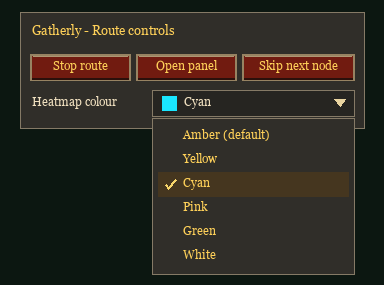
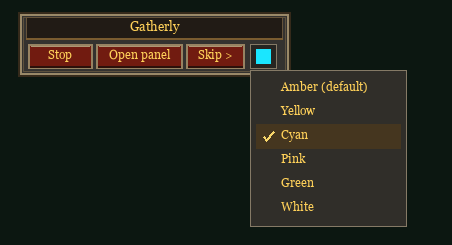
Compact floating route controls with Classic frame styling

diff --git a/tools/render_ui_preview.py b/tools/render_ui_preview.py
@@ -15,7 +15,13 @@ CreateFrame=function(...)
  f.SetPoint=function(self,...) local a={...}; if type(a[2])~='table' then a={a[1],self.parent,a[1],a[2] or 0,a[3] or 0} elseif type(a[3])~='string' then a={a[1],a[2],a[1],a[3] or 0,a[4] or 0} end; self.anchors[#self.anchors+1]=a end
  f.ClearAllPoints=function(self) self.anchors={};self.all=nil end
  f.SetAllPoints=function(self,target) self.all=target or self.parent end
- f.SetBackdrop=function(self,v) self.backdrop=v end
+ f.SetBackdrop=function(self,v)
+  self.backdrop=v
+  if v and v.edgeFile=='Interface\\DialogFrame\\UI-DialogBox-Border' then
+   if not self.previewTrim then self.previewTrim=self:CreateTexture(nil,'BORDER');self.previewTrim:SetAllPoints() end
+   self.previewTrim:SetTexture(v.edgeFile)
+  end
+ end
  f.SetBackdropColor=function(self,...) self.backColor={...} end
  f.SetBackdropBorderColor=function(self,...) self.borderColor={...} end
  f.SetFont=function(self,path,size,flags) self.fontPath=path;self.fontSize=size;self.fontFlags=flags end
@@ -35,12 +41,14 @@ CreateFrame=function(...)
  return f
 end
 WorldMapFrame:Hide();C_Minimap={GetViewRadius=function() return 200 end}
-A={version='0.18.3'};for _,m in ipairs({'Store','Client','Resources','MarkerGroups','SkillTooltip','Selection','Atlas','ResourceLibrary','DifficultyProbe','Editor','Recorder','Coverage','Corridor','Planner','FarmingSession','Follower','Heatmap','MiniHeat','MinimapPins','Map','Skin','PanelWindow','ScrollPanel','VirtualList','Dropdown','Data/MapReveal','MapOverlays','MapArt','GroupPicker','RouteSketch','RouteView','RouteControls','ResourceLibraryView','UIActions','FilterSidebar','WelcomeView','MarkerFiltersView','NodeDisplayView','PreferencesView','UI','Arrow','MinimapButton'}) do assert(loadfile(m..'.lua'))('Gatherly',A) end
+A={version='0.18.4'};for _,m in ipairs({'Store','Client','Resources','MarkerGroups','SkillTooltip','Selection','Atlas','ResourceLibrary','DifficultyProbe','Editor','Recorder','Coverage','Corridor','Planner','FarmingSession','Follower','Heatmap','MiniHeat','MinimapPins','Map','Skin','PanelWindow','ScrollPanel','VirtualList','Dropdown','Data/MapReveal','MapOverlays','MapArt','GroupPicker','RouteSketch','RouteView','RouteControls','ResourceLibraryView','UIActions','FilterSidebar','WelcomeView','MarkerFiltersView','NodeDisplayView','PreferencesView','UI','Arrow','MinimapButton'}) do assert(loadfile(m..'.lua'))('Gatherly',A) end
 A.db=A.Store.Open();A.Client.Position=function() return {mapID=1,x=.2,y=.4} end
 A.Client.Size=function() return 1000,600 end
 A.Client.Distance=function(a,b) if not a or not b or a.mapID~=b.mapID then return end;return math.sqrt(((a.x-b.x)*1000)^2+((a.y-b.y)*600)^2) end
 A.Client.Probe=function() return {loot=true,position=true,distance=true,facing=true,minimap=true} end
 A.Store.distance=A.Client.Distance; C_Map={GetMapInfo=function(id) return {name=({[1]='Ashenvale',[2]='Darkshore',[3]='Elwynn Forest'})[id] or 'Zone '..tostring(id)} end}; C_Map.GetMapArtID=function() return 1 end;C_Map.GetMapArtLayers=function() return {{layerWidth=1000,layerHeight=667,tileWidth=1000,tileHeight=667}} end;C_Map.GetMapArtLayerTextures=function() return {9001} end;A.UI.Build();A.UI.OpenRoutes()
+-- Approximate the native PortraitFrame background file and UVs in the frame double.
+A.UI.chrome.Bg={GetTexture=function() return 9002 end,GetTexCoord=function() return 0,1,0,1 end}
 function populate()
  local nodes={}
  for i=1,18 do local n=A.Store.Observe(A.db,{mapID=1,x=.18+(i%6)*.08,y=.18+math.floor(i/6)*.14,kind=i%3==0 and 'ore' or 'herb',name=i%3==0 and 'Copper vein' or i%2==0 and 'Silverleaf' or 'Peacebloom',materialID='m'..(i%3),source=i%2==0 and 'confirmed' or 'imported'});nodes[#nodes+1]=n end
@@ -103,8 +111,8 @@ def render(scene):
     if scene=='route_heatmap':lua.execute("A.UI.controls.routeStyle:SelectValue('heatmap')")
     if scene=='route_selected':lua.execute("A.UI.routeSketch.pins[1].scripts.OnClick(A.UI.routeSketch.pins[1])")
     if scene=='compact':lua.execute('A.UI.controls.start.scripts.OnClick();A.UI.OpenRoutes();A.UI.SetCompact(true)')
-    if scene=='route_controls':lua.execute('A.UI.actions.start()')
-    if scene=='route_controls_colour':lua.execute("A.db.settings.routeControlsPosition={x=.5,y=.6};A.UI.actions.start();A.RouteControls.colour:SelectValue('cyan');A.RouteControls.colour.scripts.OnClick(A.RouteControls.colour)")
+    if scene=='route_controls':lua.execute('Minimap:Hide();A.UI.actions.start()')
+    if scene=='route_controls_colour':lua.execute("Minimap:Hide();A.db.settings.routeControlsPosition={x=.5,y=.6};A.UI.actions.start();A.RouteControls.colour:SelectValue('cyan');A.RouteControls.colour.scripts.OnClick(A.RouteControls.colour)")
     if scene=='preferences':lua.execute("A.UI.SetTab('settings')")
     if scene in ('welcome','welcome_importing'):
         lua.execute("A.UI.SetTab('welcome')")
@@ -160,7 +168,7 @@ def render(scene):
         resolving.remove(k);boxes[k]=r;return r
     def visible(o):return o['shown'] is not False and (o['parent'] is None or ident(o['parent'])==0 or visible(o['parent']))
     im=Image.new('RGBA',(screen_w,screen_h),'#0c1711');d=ImageDraw.Draw(im)
-    d.text((160,27),'GATHERLY 0.18.3 / '+scene.upper()+' / ACTUAL LUA LAYOUT PREVIEW',font=ImageFont.truetype('C:/Windows/Fonts/arial.ttf',11),fill='#9cae9d')
+    d.text((160,27),'GATHERLY 0.18.4 / '+scene.upper()+' / ACTUAL LUA LAYOUT PREVIEW',font=ImageFont.truetype('C:/Windows/Fonts/arial.ttf',11),fill='#9cae9d')
     fonts={}; text_report=[]
     def font(o):
         size=int(o['fontSize'] or 12);family='georgia.ttf' if 'FRIZ' in (o['fontPath'] or '') else 'arial.ttf';key=(family,size)
@@ -238,6 +246,7 @@ def render(scene):
                 tile=Image.new('RGBA',(max(1,round(w)),max(1,round(h))),colour);im.alpha_composite(tile,(round(x),round(y)))
             else:d.rectangle(rect,fill=colour)
         texture=o['texture']
+        if texture==9002:d.rectangle(rect,fill='#34322f')
         if texture==9001 and w>0 and h>0:
             art=map_art.copy()
             if scene=='mini_heat_dark':art=ImageChops.multiply(art,Image.new('RGBA',art.size,(75,85,50,255)))
@@ -259,6 +268,10 @@ def render(scene):
             im.alpha_composite(art,(round(x),round(y)))
         if isinstance(texture,str) and w>0 and h>0 and '\\Media\\' not in texture:
             if 'UI-DialogBox-Background' in texture:d.rectangle(rect,fill='#211b15',outline='#65533a')
+            elif 'UI-DialogBox-Border' in texture:
+                d.rectangle(rect,outline='#352a1b',width=4)
+                d.rectangle((x+2,y+2,x+w-2,y+h-2),outline='#9a8968',width=2)
+                d.rectangle((x+5,y+5,x+w-5,y+h-5),outline='#5d513d',width=1)
             elif 'UI-Panel-Button-' in texture:
                 disabled='Disabled' in texture
                 d.rectangle(rect,fill='#37322d' if disabled else '#611b13',outline='#8d7650',width=2)

diff --git a/tests/package.py b/tests/package.py
@@ -1,7 +1,7 @@
 from pathlib import Path
 import zipfile
 root = Path(__file__).resolve().parents[1]
-path = root / 'dist/Gatherly-0.18.3.zip'
+path = root / 'dist/Gatherly-0.18.4.zip'
 assert path.is_file(), 'Installable ZIP missing'
 with zipfile.ZipFile(path) as z:
     names = z.namelist()
@@ -11,7 +11,7 @@ with zipfile.ZipFile(path) as z:
     metadata = dict(line[3:].split(': ', 1) for line in toc.splitlines() if line.startswith('## '))
     assert metadata['Title'] == 'Gatherly'
     assert metadata['SavedVariables'] == 'GatherlyDB'
-    assert metadata['Version'] == '0.18.3'
+    assert metadata['Version'] == '0.18.4'
     assert metadata['X-License'] == 'MIT'
     assert metadata['IconTexture'] == r'Interface\AddOns\Gatherly\Media\Icon'
     for texture in ['Icon', 'LogoSheet', 'EmptyEmblem', 'NodeRing', 'NodeSquare', 'GuideArrow', 'HeatBlob', 'MinimapMasks']:

diff --git a/tools/package.py b/tools/package.py
@@ -14,7 +14,7 @@ for name in files:
     assert (root / name).is_file(), f'Missing package file: {name}'
 dist = root / 'dist'
 dist.mkdir(exist_ok=True)
-path = dist / 'Gatherly-0.18.3.zip'
+path = dist / 'Gatherly-0.18.4.zip'
 with zipfile.ZipFile(path, 'w', zipfile.ZIP_DEFLATED) as z:
     for name in files:
         z.write(root / name, 'Gatherly/' + name)

diff --git a/README.md b/README.md
@@ -14,7 +14,7 @@ where resources grow, build farming routes and follow a clear in-game guide arro
 ![Tests](https://github.com/Red463/Gatherly/actions/workflows/ci.yml/badge.svg)
 ![MIT license](https://img.shields.io/badge/license-MIT-green.svg)
 
-**Current version:** 0.18.3 ? **Client interface:** 16001 ? **Command:** `/gatherly`
+**Current version:** 0.18.4 ? **Client interface:** 16001 ? **Command:** `/gatherly`
 
 ## What it does
 
@@ -44,10 +44,10 @@ where resources grow, build farming routes and follow a clear in-game guide arro
 
 ### Floating route controls
 
-Starting guidance opens a movable mini panel with **Stop route**, **Open panel** and
-**Skip next node**. Drag its heading to move it; Gatherly remembers its position.
+Starting guidance opens a compact Classic toolbar with **Stop**, **Open panel** and
+**Skip >**. Drag its Gatherly heading to move it; its position is remembered.
 It remains available while paused and closes when the route stops or finishes.
-Use **Heatmap colour** to choose Amber, Yellow, Cyan, Pink, Green or White for the
+Click the **colour swatch** to choose Amber, Yellow, Cyan, Pink, Green or White for the
 minimap terrain. The colour swatch shows your selection, which applies immediately
 and is remembered. Amber restores the original tint. World-map heat and opacity
 settings are unaffected.
@@ -61,7 +61,7 @@ route guidance continue normally.
 Gatherly uses the **Gatherly** folder, **Gatherly.lua** saved-data file and
 **GatherlyDB** global. The only slash command is **/gatherly**.
 
-1. Download `Gatherly-0.18.3.zip` from
+1. Download `Gatherly-0.18.4.zip` from
    [Releases](https://github.com/Red463/Gatherly/releases/latest).
    Choose the addon ZIP asset rather than GitHub's automatic **Source code** ZIP.
 2. Close WoW and extract the `Gatherly` folder into your Forever

diff --git a/CHANGELOG.md b/CHANGELOG.md
@@ -1,5 +1,11 @@
 # Changelog
 
+## 0.18.4 - 2026-11-19
+
+- Restyle floating route controls as a 272 x 64 Classic toolbar using native dialog trim and the main panel background artwork where available.
+- Keep text at its normal size and place Stop, Open panel, Skip and the heatmap-colour swatch in one row. Hover for full control descriptions.
+- Keep colour names readable in a full-width popup while reducing its launcher to a swatch. Saved position, colour, guidance and auto-open settings are preserved.
+
 ## 0.18.3 - 2026-11-19
 
 - Add a Heatmap colour menu and current-colour swatch to the movable route controls. Choose Amber, Yellow, Cyan, Pink, Green or White to suit minimap terrain.
